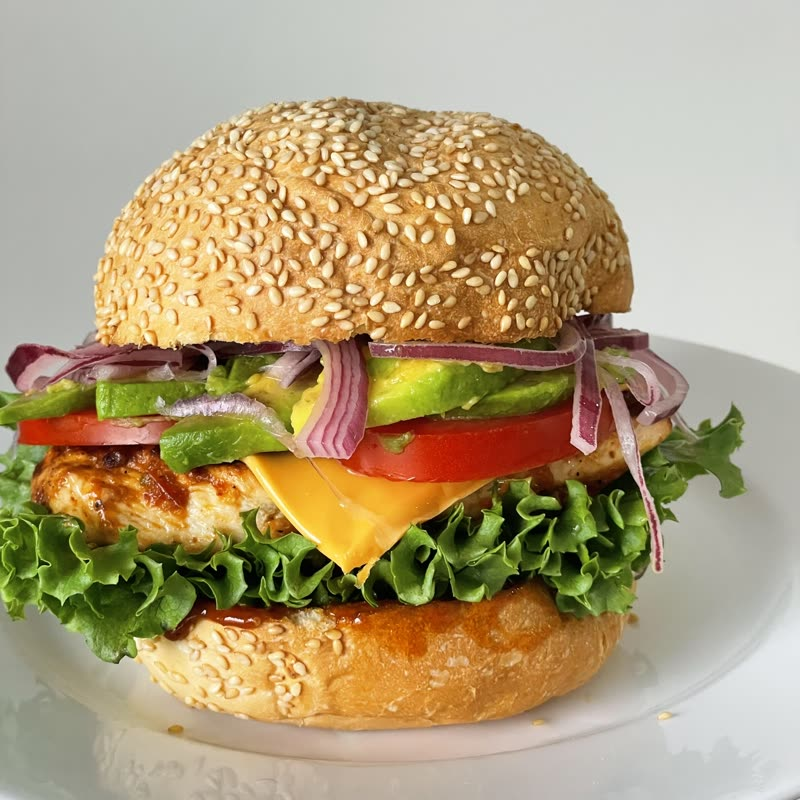
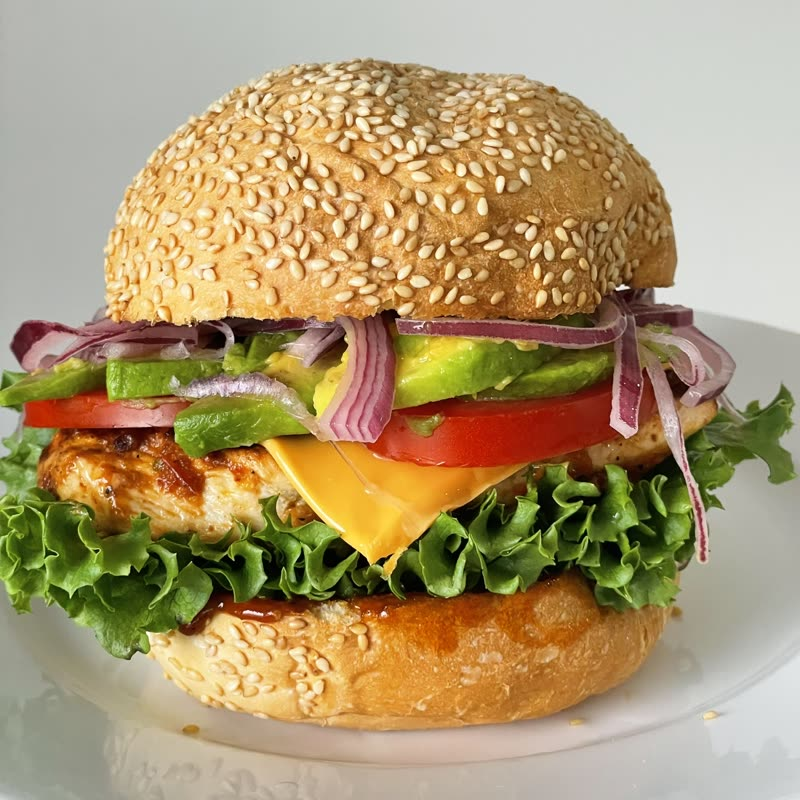
Order page: re-centre burger photo

diff --git a/order.html b/order.html
@@ -94,7 +94,7 @@
       <h2>Build Your Own Chicken Burger <span class="o-badge">₫100,000</span></h2>
       <p class="o-sub">Boneless chicken thigh in a burger, with lettuce, tomato and mayonnaise. Add a side for ₫20,000.</p>
       <div class="o-build-grid">
-        <img class="o-build-img" src="img/menu/chicken-burger.jpg" alt="Chicken burger" loading="lazy">
+        <img class="o-build-img" src="img/menu/chicken-burger.jpg?v=2" alt="Chicken burger" loading="lazy">
         <div class="o-steps">
           <div class="o-step"><b>1 · Flavour</b><div><span class="o-chip" data-group="bflavour" data-value="BBQ">BBQ</span><span class="o-chip" data-group="bflavour" data-value="Peri Peri">Peri Peri</span><span class="o-chip" data-group="bflavour" data-value="Honey Mustard">Honey Mustard</span></div></div>
           <div class="o-step"><b>2 · Toppings</b><div><span class="o-chip" data-group="btop" data-value="Cheese" data-price="5000">Cheese +5,000</span><span class="o-chip" data-group="btop" data-value="Fried egg" data-price="10000">Fried egg +10,000</span><span class="o-chip" data-group="btop" data-value="Sweet &amp; sour onion" data-price="10000">Sweet &amp; sour onion +10,000</span></div></div>
